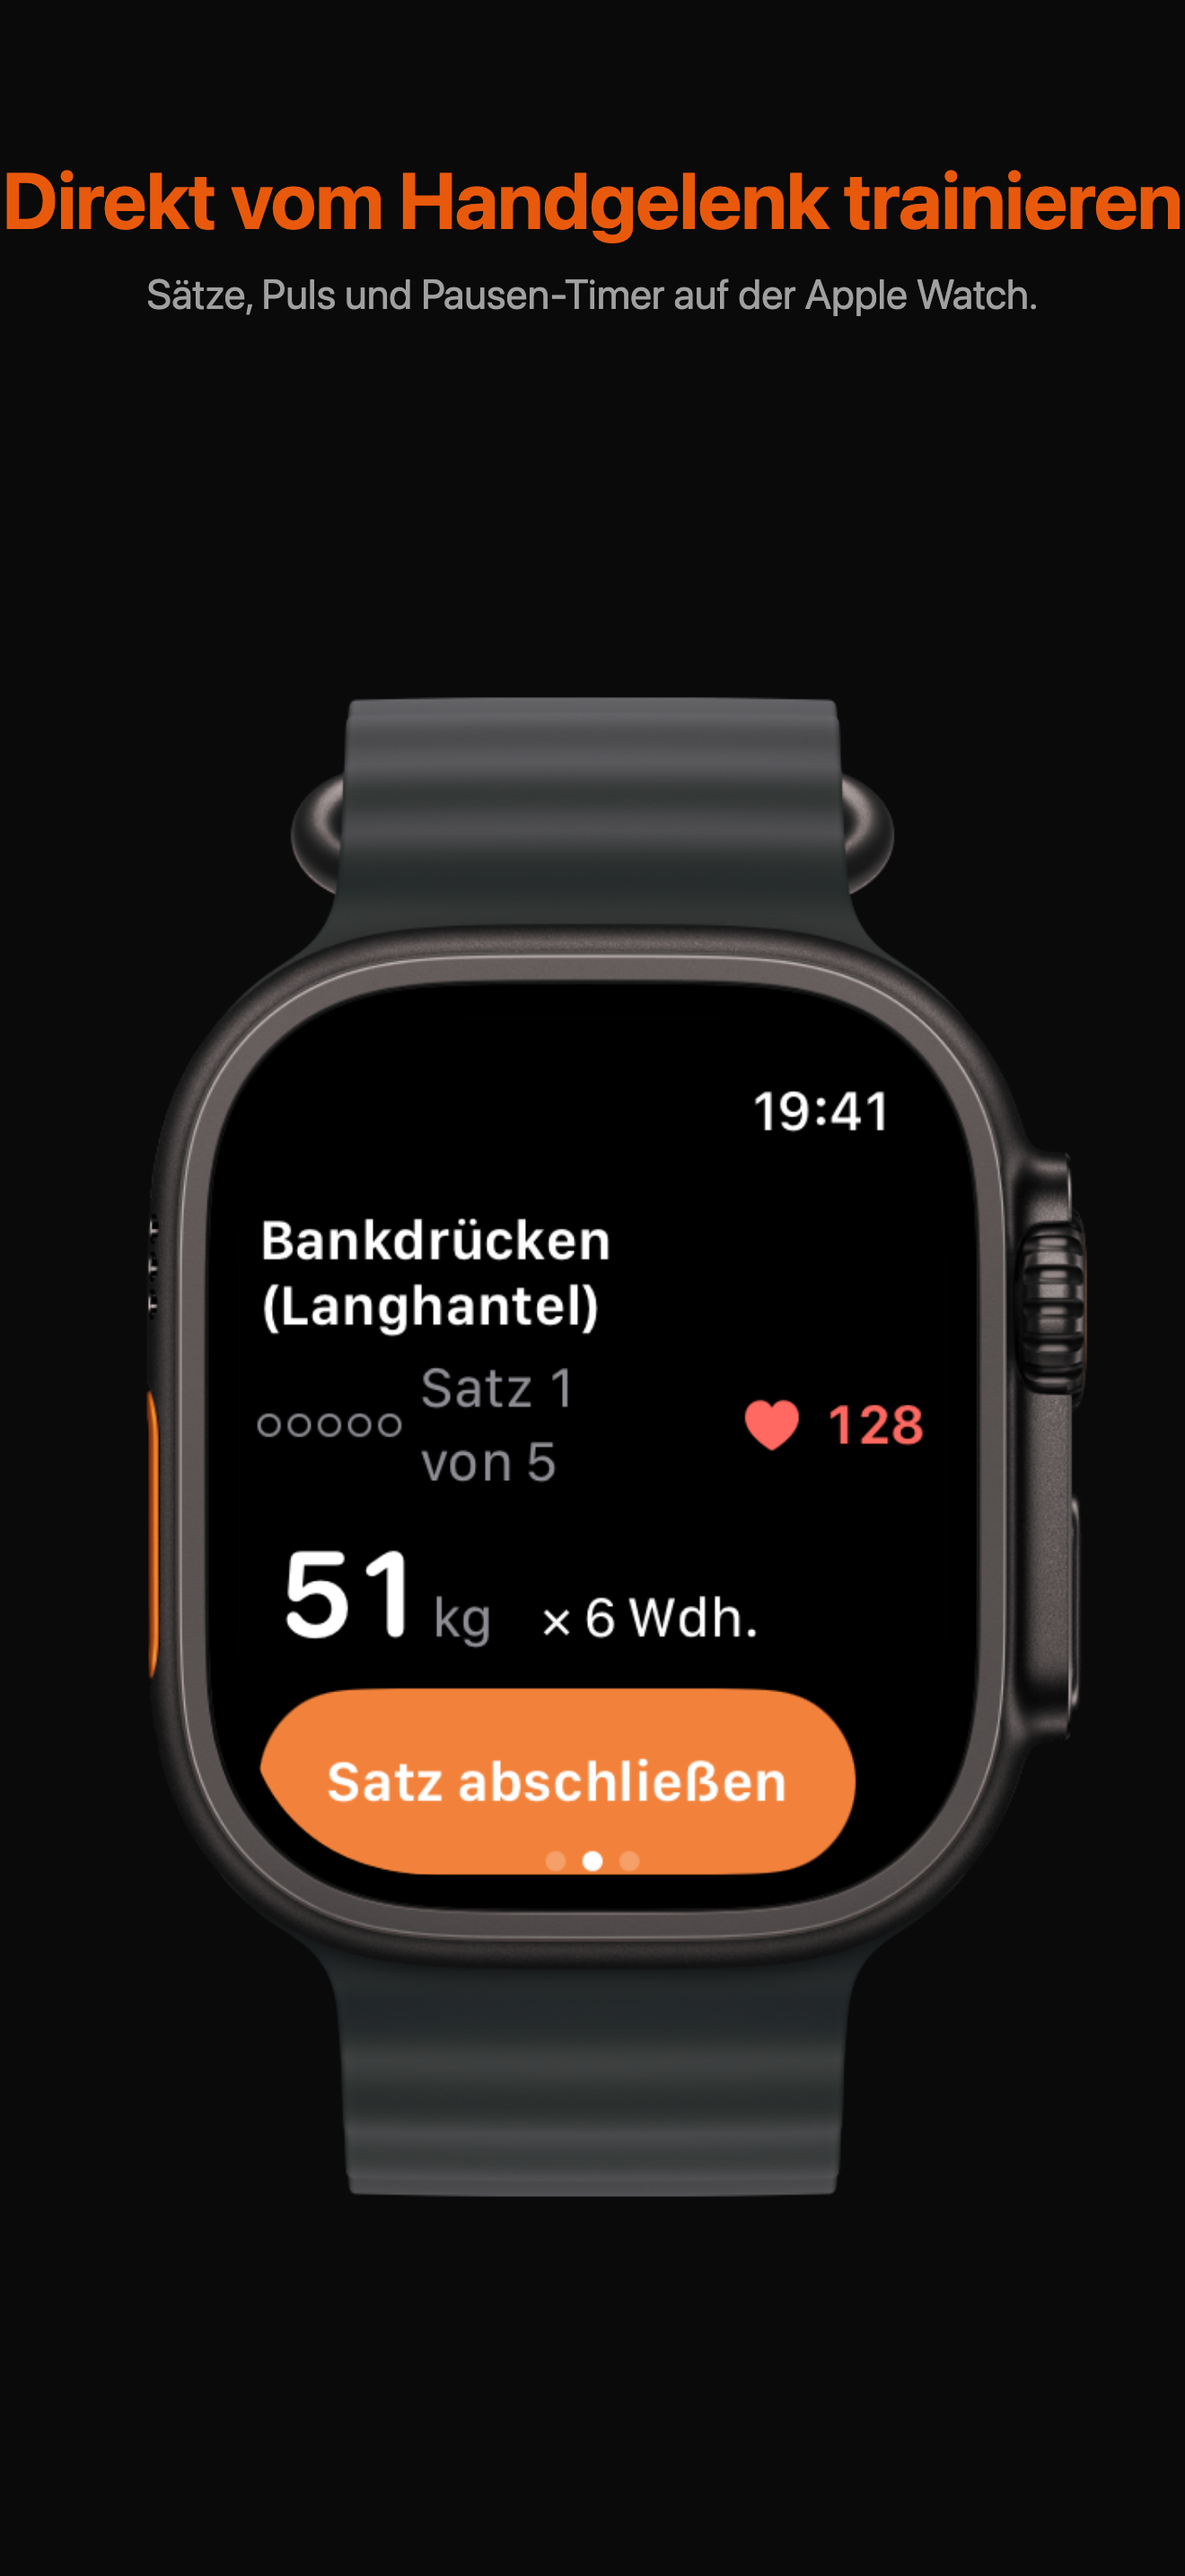
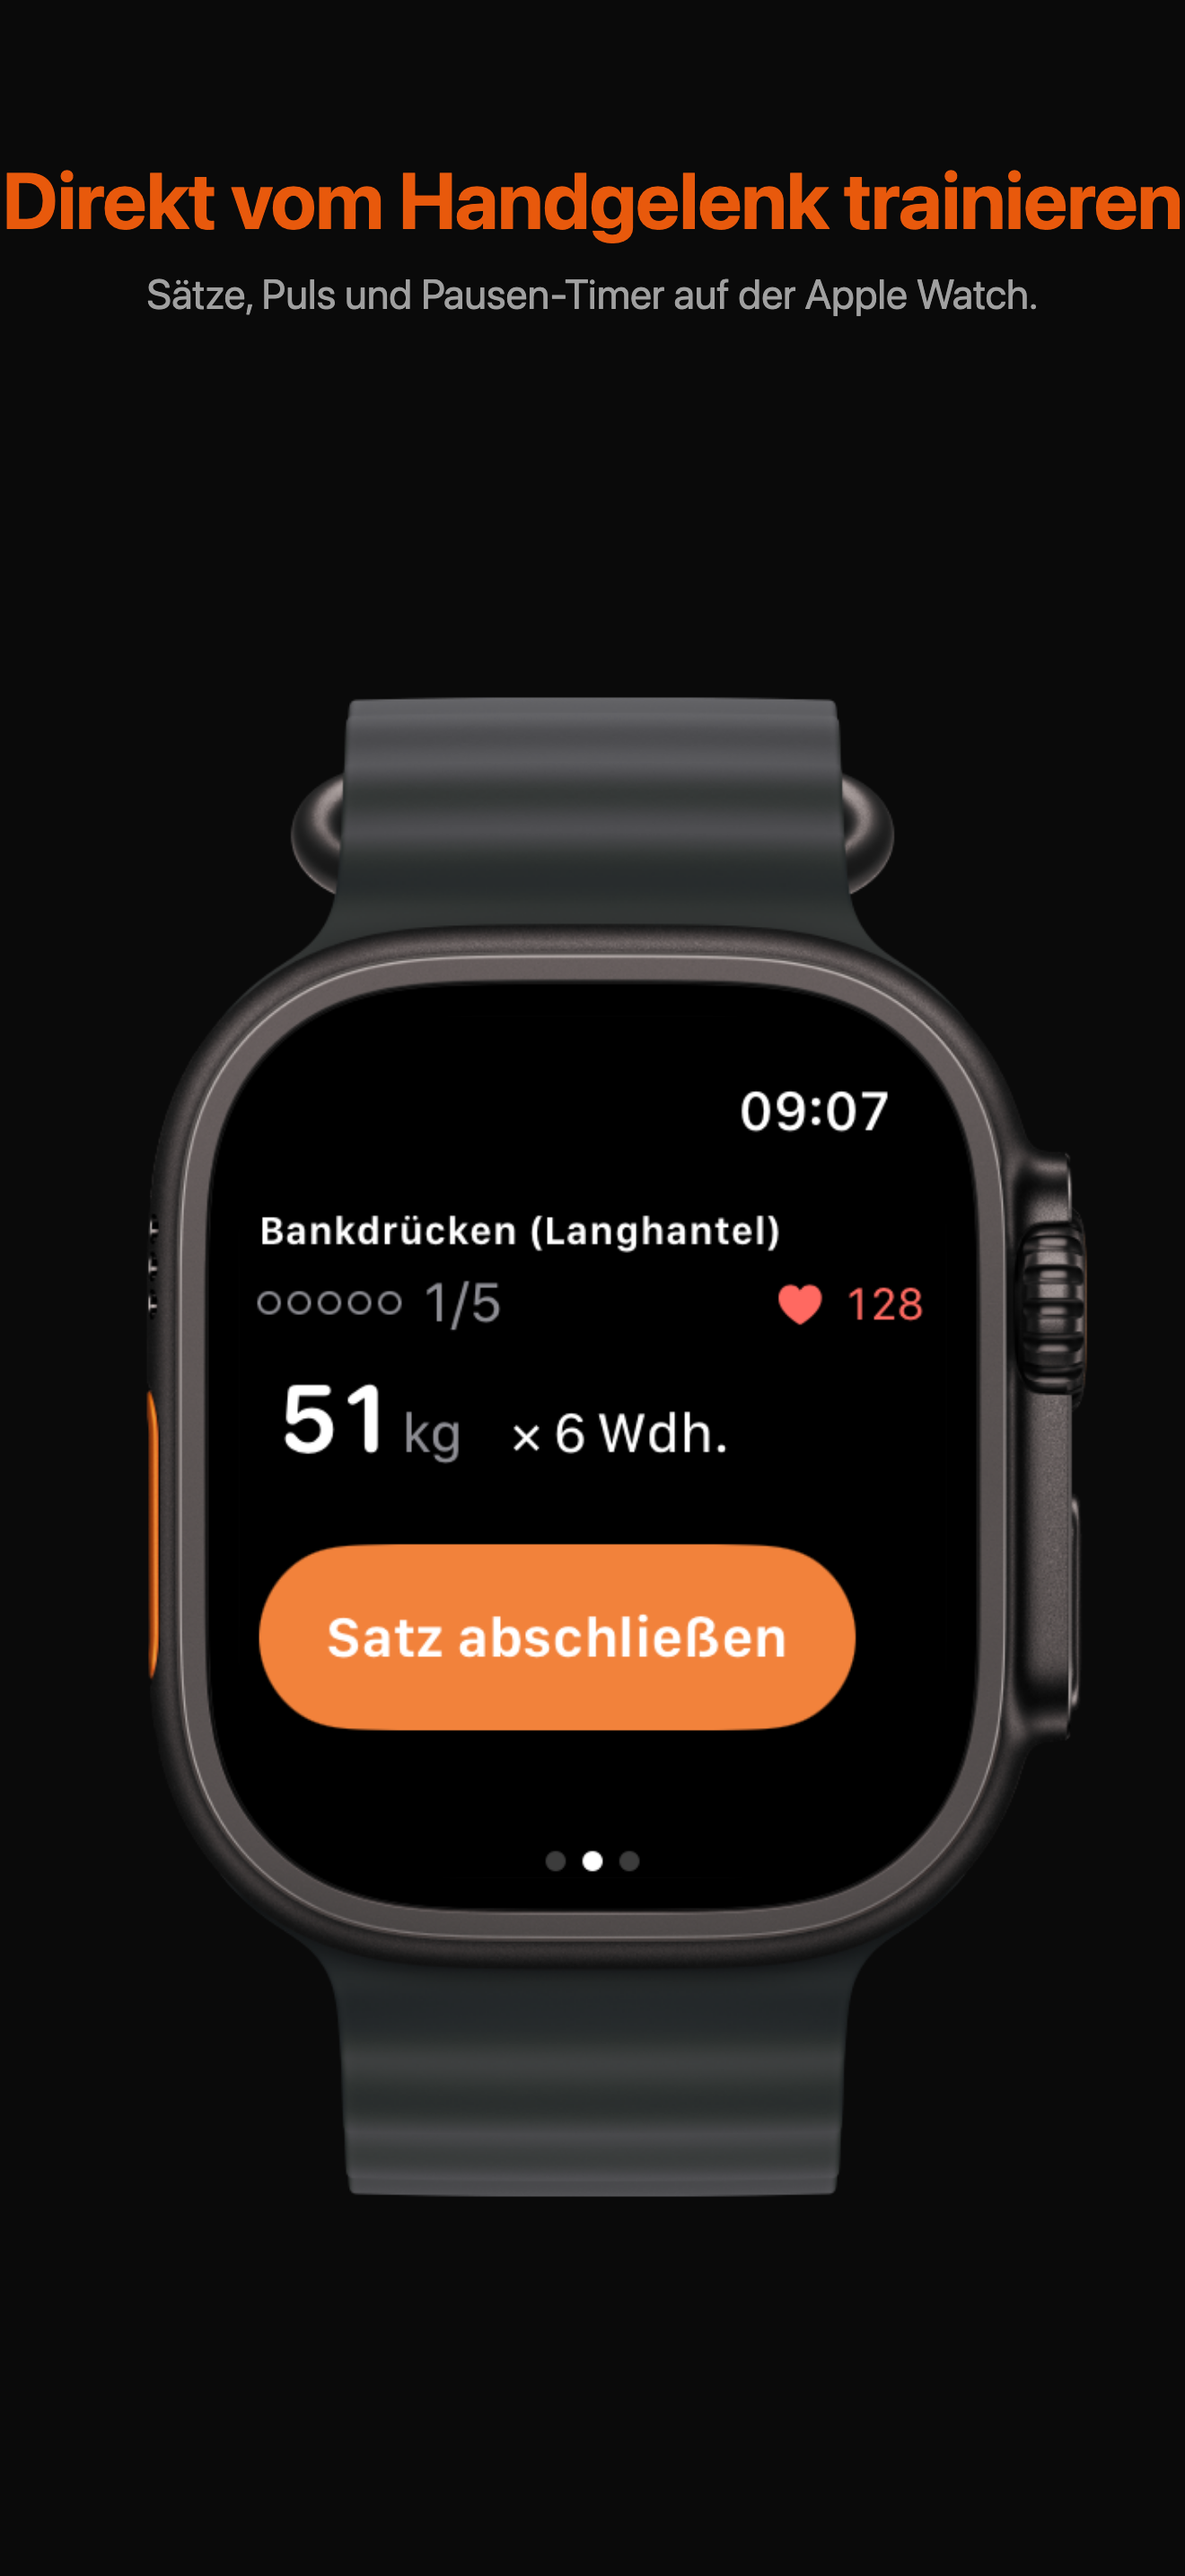
fix(marketing): capture the suggestion card instead of a second hero shot
The 02 shot stopped at the first +kg hint, which is already on screen, so it
matched 01. It now scrolls to the session suggestion card; screenshots are
regenerated, including the new Watch layout.

Changed region(s): [[0.2174, 0.4655, 0.7455, 0.7448], [0.6212, 0.4965, 0.7765, 0.5586], [0.6212, 0.4034, 0.7455, 0.4655]]

diff --git a/apps/apple/LukiFittiIOSUITests/MarketingScreenshotsUITests.swift b/apps/apple/LukiFittiIOSUITests/MarketingScreenshotsUITests.swift
@@ -62,18 +62,13 @@ final class MarketingScreenshotsUITests: XCTestCase {
     @MainActor private func shot02() {
         let app = launch(session: true)
         assertSession(app)
-        // The next open set carries a +2.5 kg suggestion from the seeded history.
-        // The suggestion row lives under the next open set — scroll until it's rendered.
-        for _ in 0..<4 {
-            if app.buttons.matching(
-                NSPredicate(format: "label CONTAINS[c] 'kg' AND label CONTAINS '+'")
-            ).firstMatch.exists { break }
+        // The seeded regression on the first exercise produces the exercise-suggestion card at
+        // the bottom of the exercise list — scroll until it's on screen.
+        let card = app.descendants(matching: .any)["ios.session.rainbowSuggestion"].firstMatch
+        for _ in 0..<6 where !card.isHittable {
             app.swipeUp()
         }
-        let hint = app.buttons.matching(
-            NSPredicate(format: "label CONTAINS[c] 'kg' AND label CONTAINS '+'")
-        ).firstMatch
-        XCTAssertTrue(hint.waitForExistence(timeout: 10), "set suggestion must be visible")
+        XCTAssertTrue(card.waitForExistence(timeout: 10), "suggestion card must be visible")
         save("02-suggestion")
     }
 

diff --git a/apps/apple/LukiFittiIOS/App/LukiFittiIOSApp.swift b/apps/apple/LukiFittiIOS/App/LukiFittiIOSApp.swift
@@ -970,6 +970,11 @@ public final class LukiAppViewModel {
                         if let w = completed.exercises[exIdx].sets[sIdx].weight {
                             completed.exercises[exIdx].sets[sIdx].weight = w + Double(8 - week) * 2.5
                         }
+                        // The first exercise dropped over the last two weeks → a regression
+                        // stall, so the suggestion card offers a replacement in the session.
+                        if exIdx == 0, week <= 2, let w = completed.exercises[exIdx].sets[sIdx].weight {
+                            completed.exercises[exIdx].sets[sIdx].weight = max(0, w - Double(3 - week) * 5 - 10)
+                        }
                         // The last week tops the rep range → the next open set gets +2.5 kg.
                         if week == 1 {
                             completed.exercises[exIdx].sets[sIdx].reps = 12
